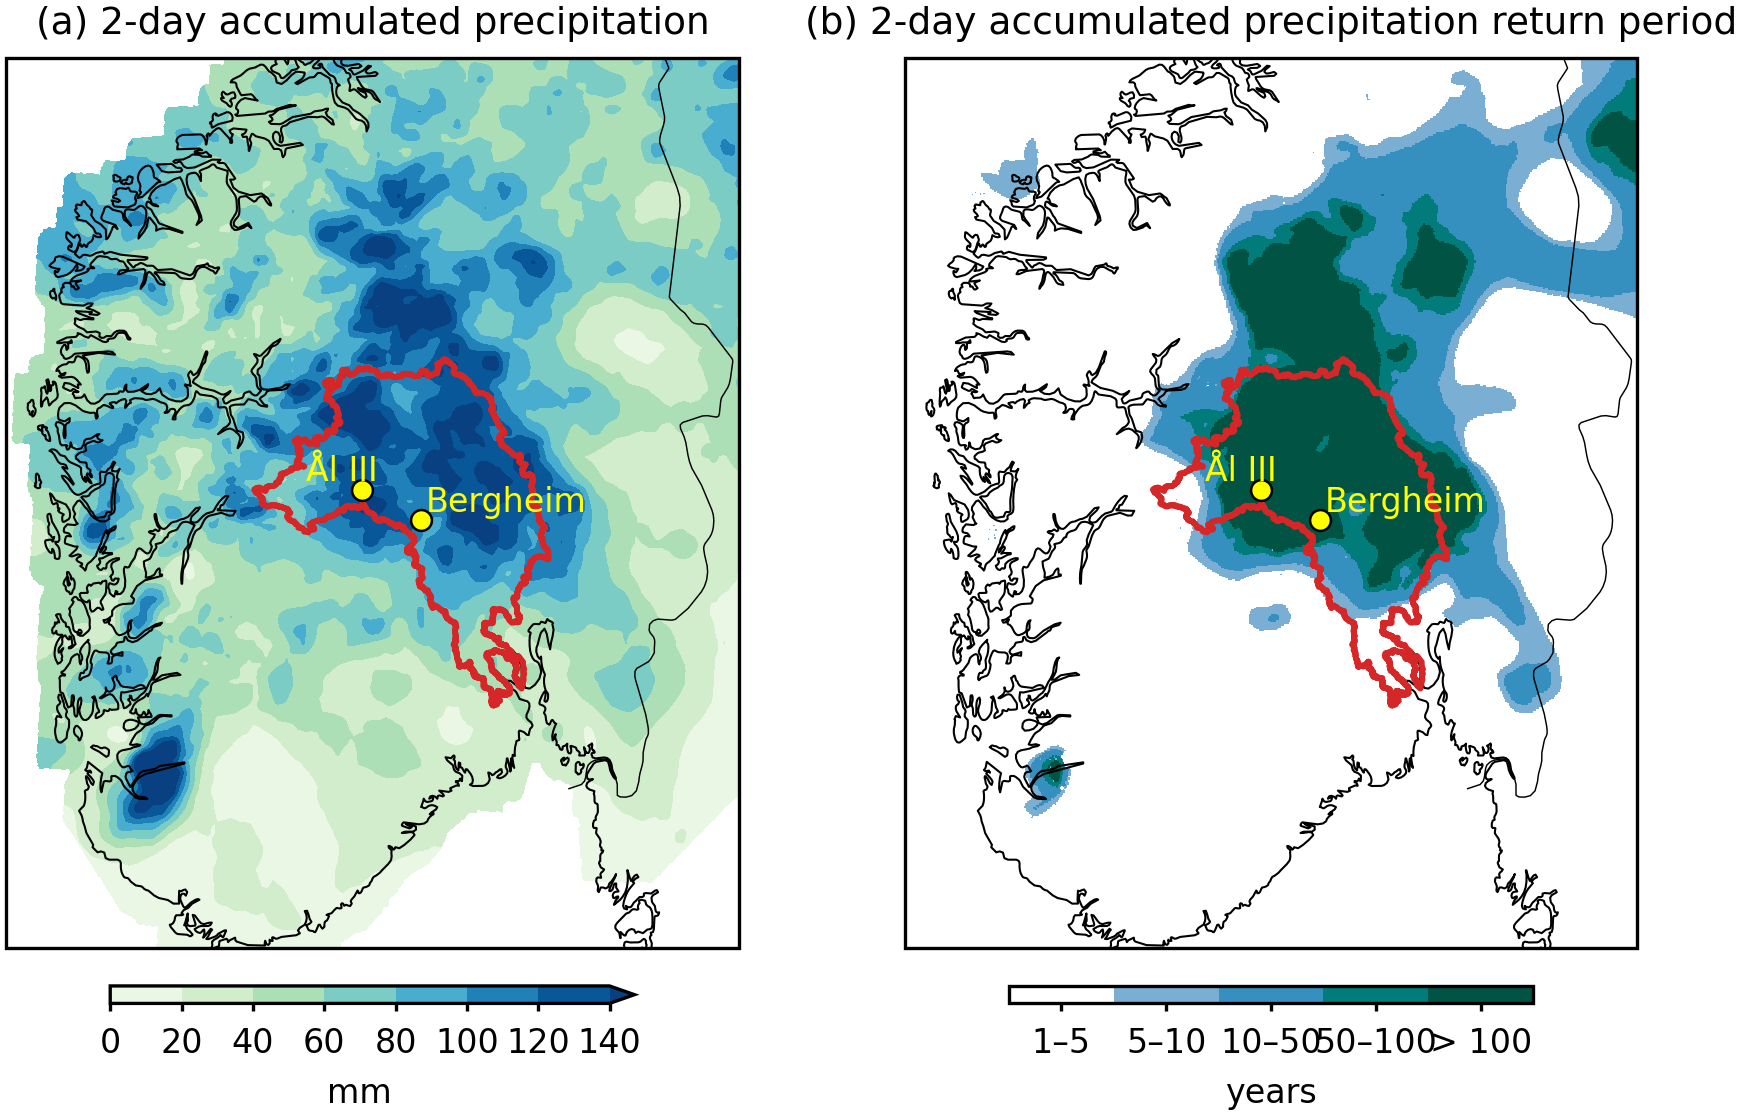
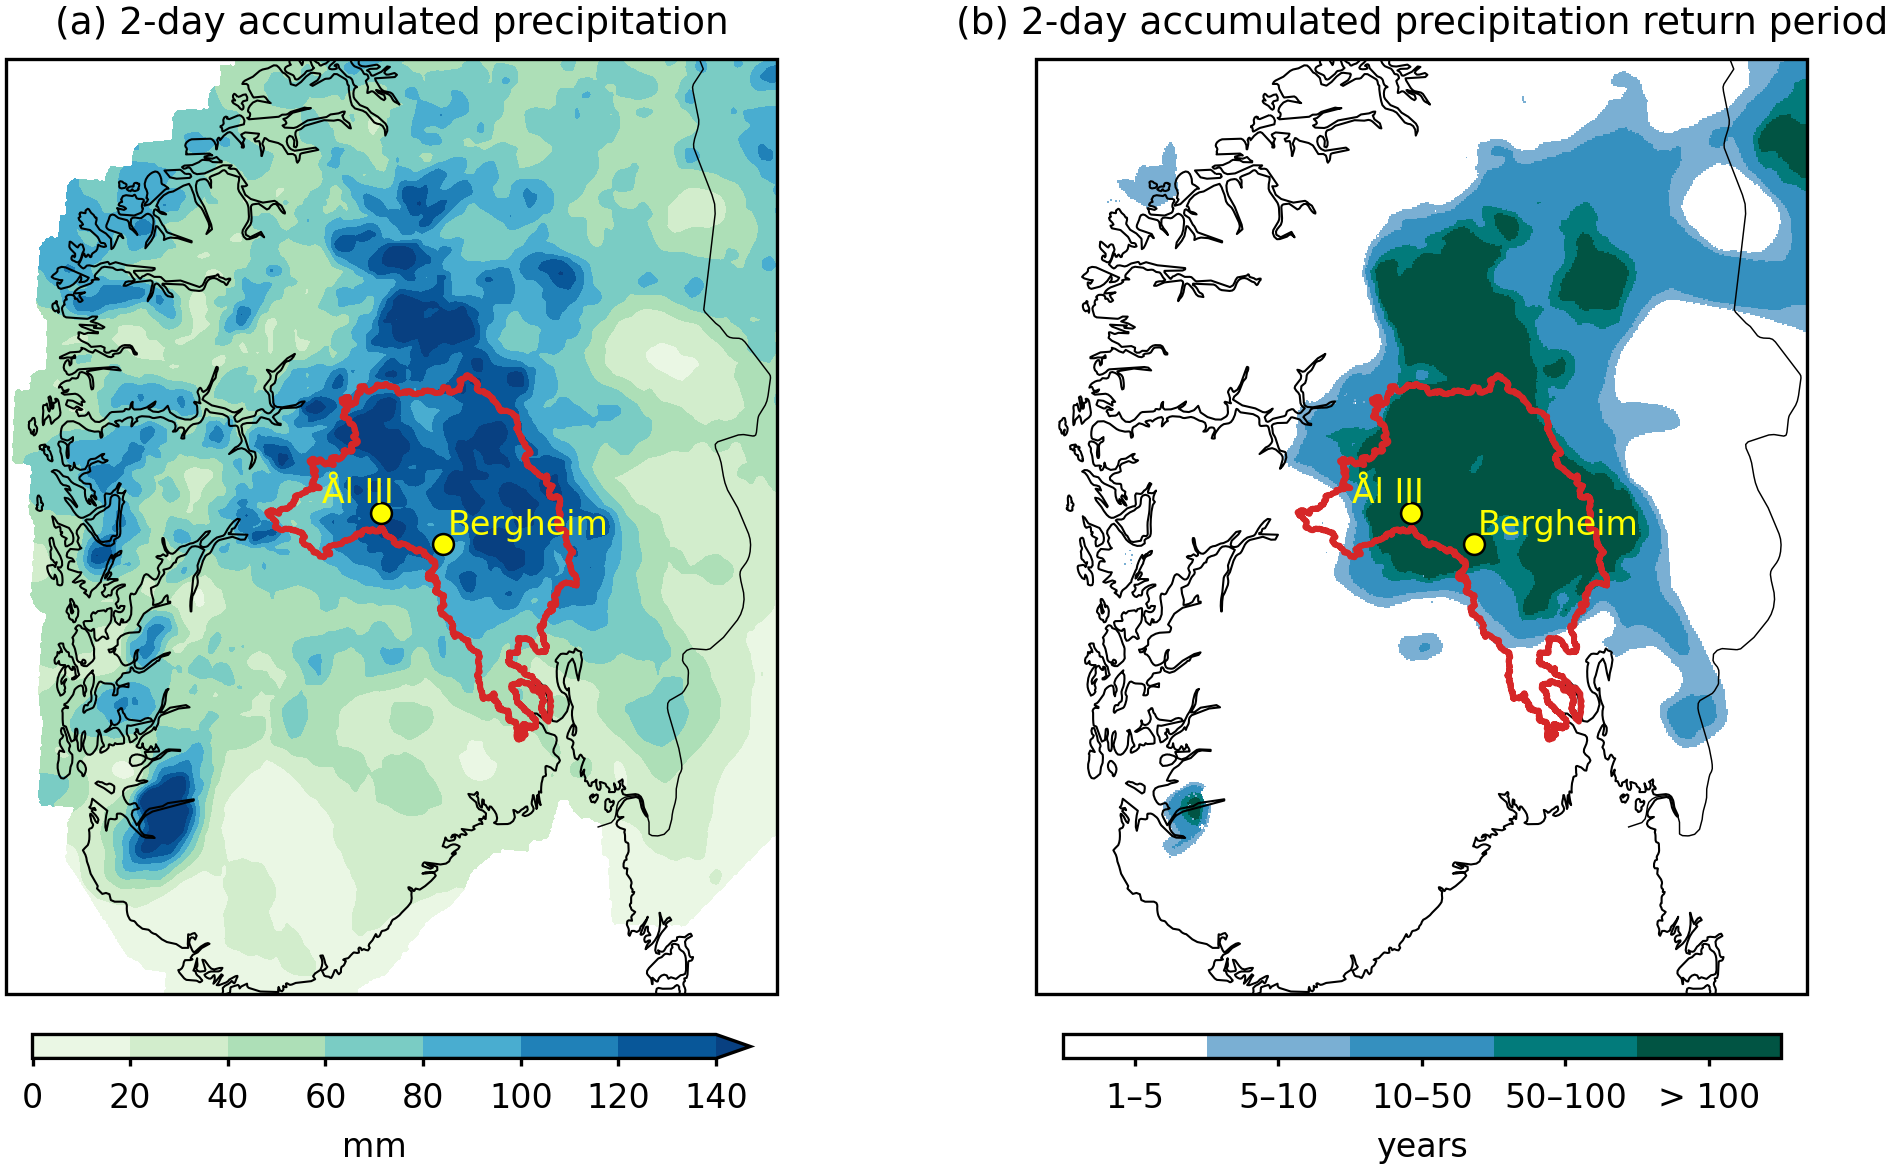
update

diff --git a/code/plot/paper_figs/temp.py b/code/plot/paper_figs/temp.py
@@ -170,6 +170,15 @@ def make_two_map_axes(central_lon=10.0, central_lat=62.0, extent=None):
         subplot_kw={"projection": proj_map},
     )
 
+    # Tight spacing between panels
+    fig.subplots_adjust(
+        left=0.03,
+        right=0.997,
+        bottom=0.12,
+        top=0.93,
+        wspace=0.005,  
+    )
+    
     for ax in axes:
         ax.coastlines(resolution="10m", linewidth=0.5)
         ax.add_feature(cfeature.BORDERS.with_scale("10m"), linewidth=0.35)
